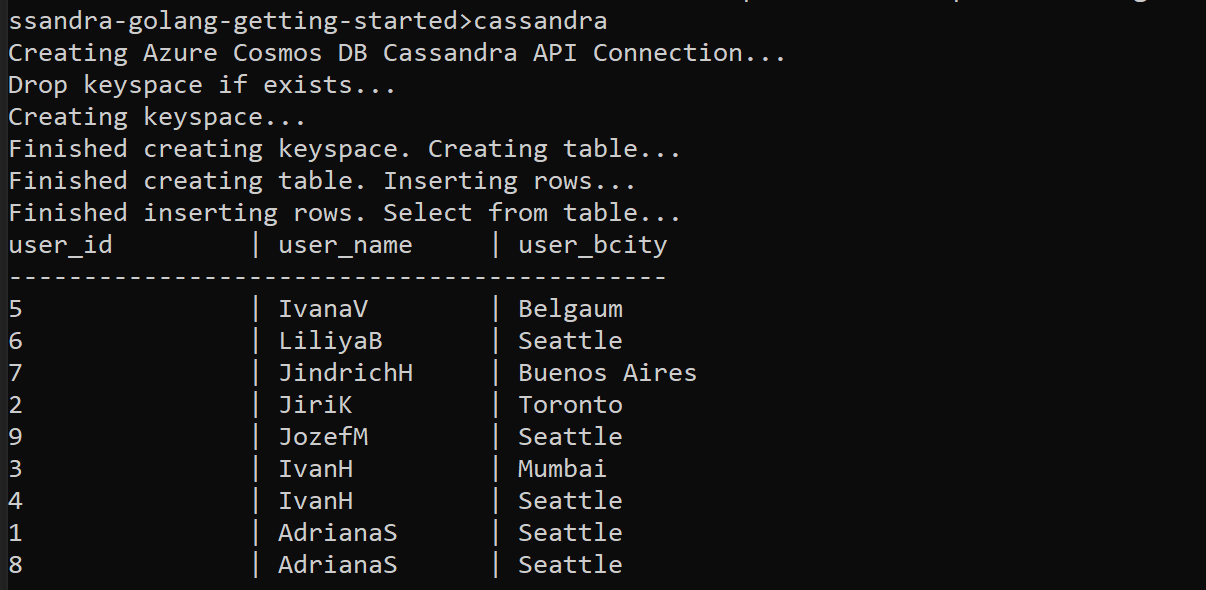
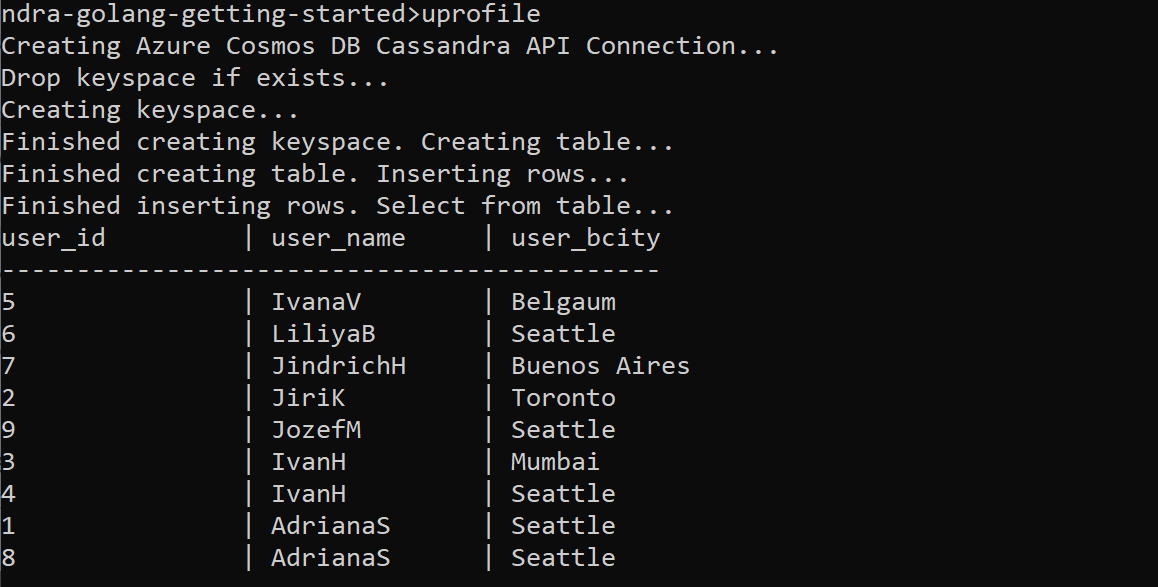
updates

Changed region(s): [[0.0, 0.0, 0.6528, 0.4293], [0.0, 0.46, 0.5907, 0.9813]]

diff --git a/uprofile.go b/uprofile.go
@@ -50,7 +50,7 @@ func main() {
 		log.Fatal(err)
 	}
 	fmt.Println("Finished creating keyspace. Creating table...")
-	time.Sleep(8 * time.Second)
+	time.Sleep(5 * time.Second)
 
 	if err := session.Query(`CREATE TABLE uprofile.user (user_id int PRIMARY KEY, user_name text, user_bcity text)`).Exec(); err != nil {
 		log.Fatal(err)

diff --git a/README.md b/README.md
@@ -21,7 +21,7 @@ git clone https://github.com/Azure-Samples/azure-cosmos-db-cassandra-golang-gett
 
 ### Configuration
 
-To configure the application, open `cassandra.go` and fill in `ACCOUNTNAME`, `PASSWORD` and `CONTACTPOINT` with corresponding values from Azure portal, within your Azure Cosmos DB Cassandra API account.  
+To configure the application, open `uprofile.go` and fill in `ACCOUNTNAME`, `PASSWORD` and `CONTACTPOINT` with corresponding values from Azure portal, within your Azure Cosmos DB Cassandra API account.  
 
 ```go
 func main() {
@@ -52,9 +52,9 @@ func main() {
 >
 > You should now have a properly formatted .cer file. 
 
-2. Change the `<path/to/cert.cer>` in `cassandra.go` to point to your new certificate.
+2. Change the `<path/to/cert.cer>` in `uprofile.go` to point to your new certificate.
 
-3. Save `cassandra.go`.
+3. Save `uprofile.go`.
 
 ### Build the application
 
@@ -64,7 +64,7 @@ Open up a command window, navigate to where you cloned the application and build
 
 ### Run the application
 
-Run the sample from the same directory by typing `cassandra` and hitting return. You should see the following output:
+Run the sample from the same directory by typing `uprofile` and hitting return. You should see the following output:
 
 ![image4](media/run.png)
 
